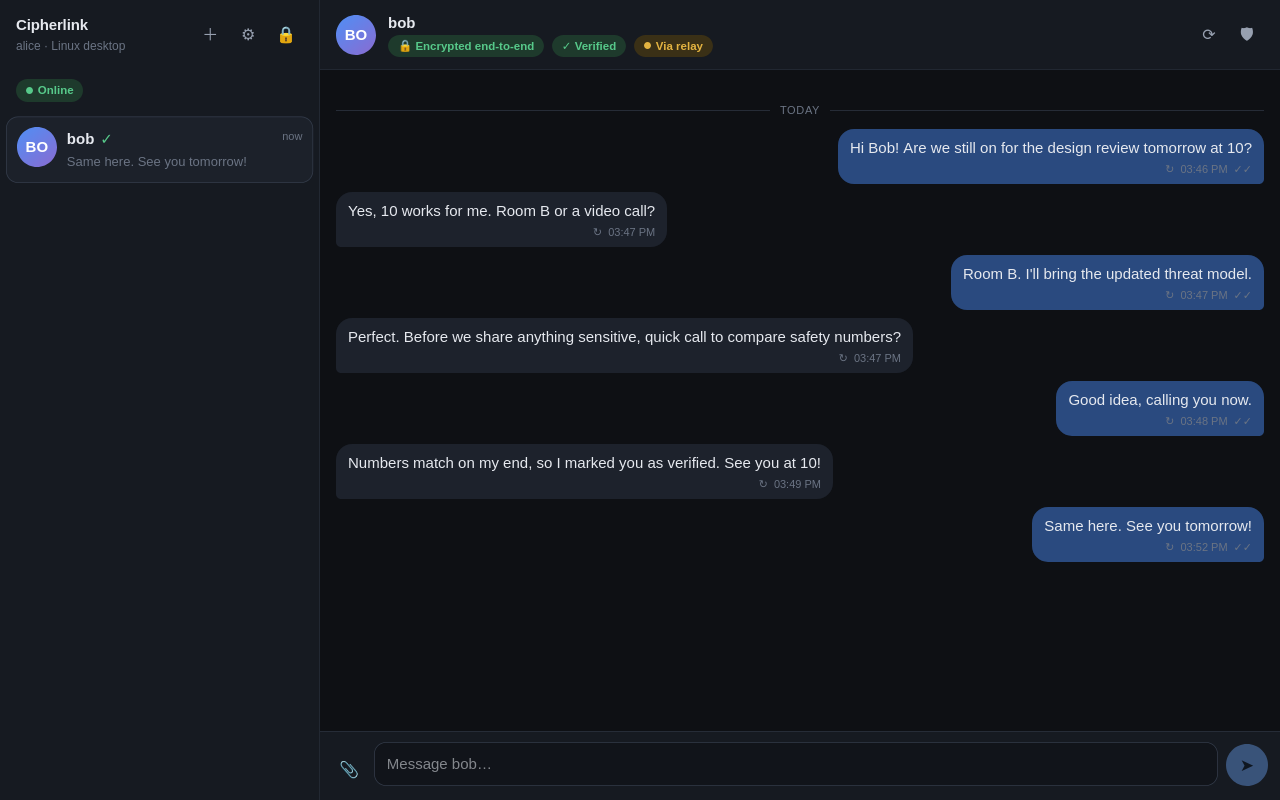
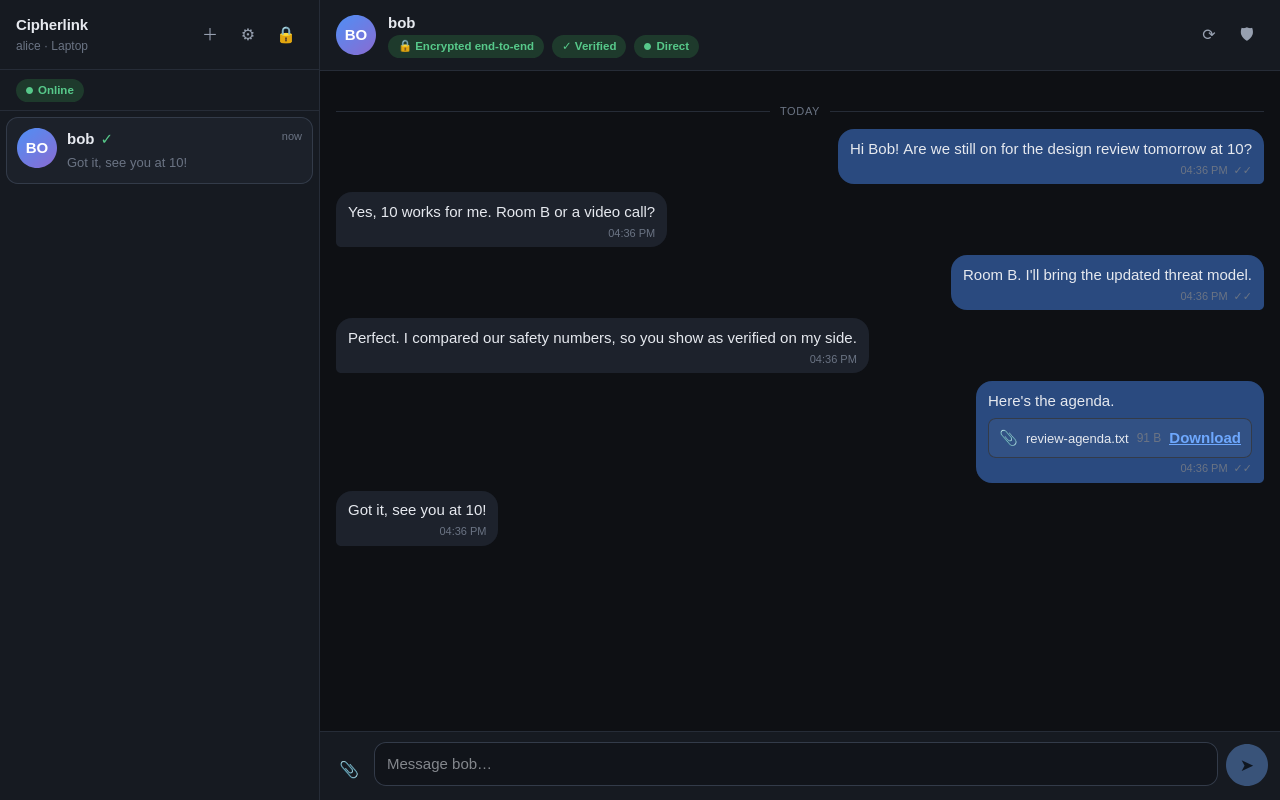
Update screenshots and test count

diff --git a/README.md b/README.md
@@ -19,7 +19,7 @@ that carries ciphertext it cannot read when it is not.
     <td width="50%"><img alt="The verification dialog: a 60-digit safety number and a QR code to compare out of band" src="docs/screenshots/verify.png"></td>
   </tr>
   <tr>
-    <td align="center"><sub>A verified conversation; the relay only ever carries ciphertext</sub></td>
+    <td align="center"><sub>A verified conversation over a direct peer-to-peer channel, with an attachment</sub></td>
     <td align="center"><sub>Safety-number verification, compared over a channel you trust</sub></td>
   </tr>
 </table>
@@ -121,7 +121,7 @@ and start a conversation by username.
 Run the tests:
 
 ```bash
-npm test             # 127 tests, including the adversarial server suite
+npm test             # 138 tests, including the adversarial server suite
 npm run typecheck
 ```
 

diff --git a/DEVELOPMENT.md b/DEVELOPMENT.md
@@ -28,7 +28,7 @@ IndexedDB.
 ## Commands
 
 ```bash
-npm test              # full suite (127 tests)
+npm test              # full suite (138 tests)
 npm run test:watch
 npm run typecheck     # every workspace
 npm run build         # production client bundle
